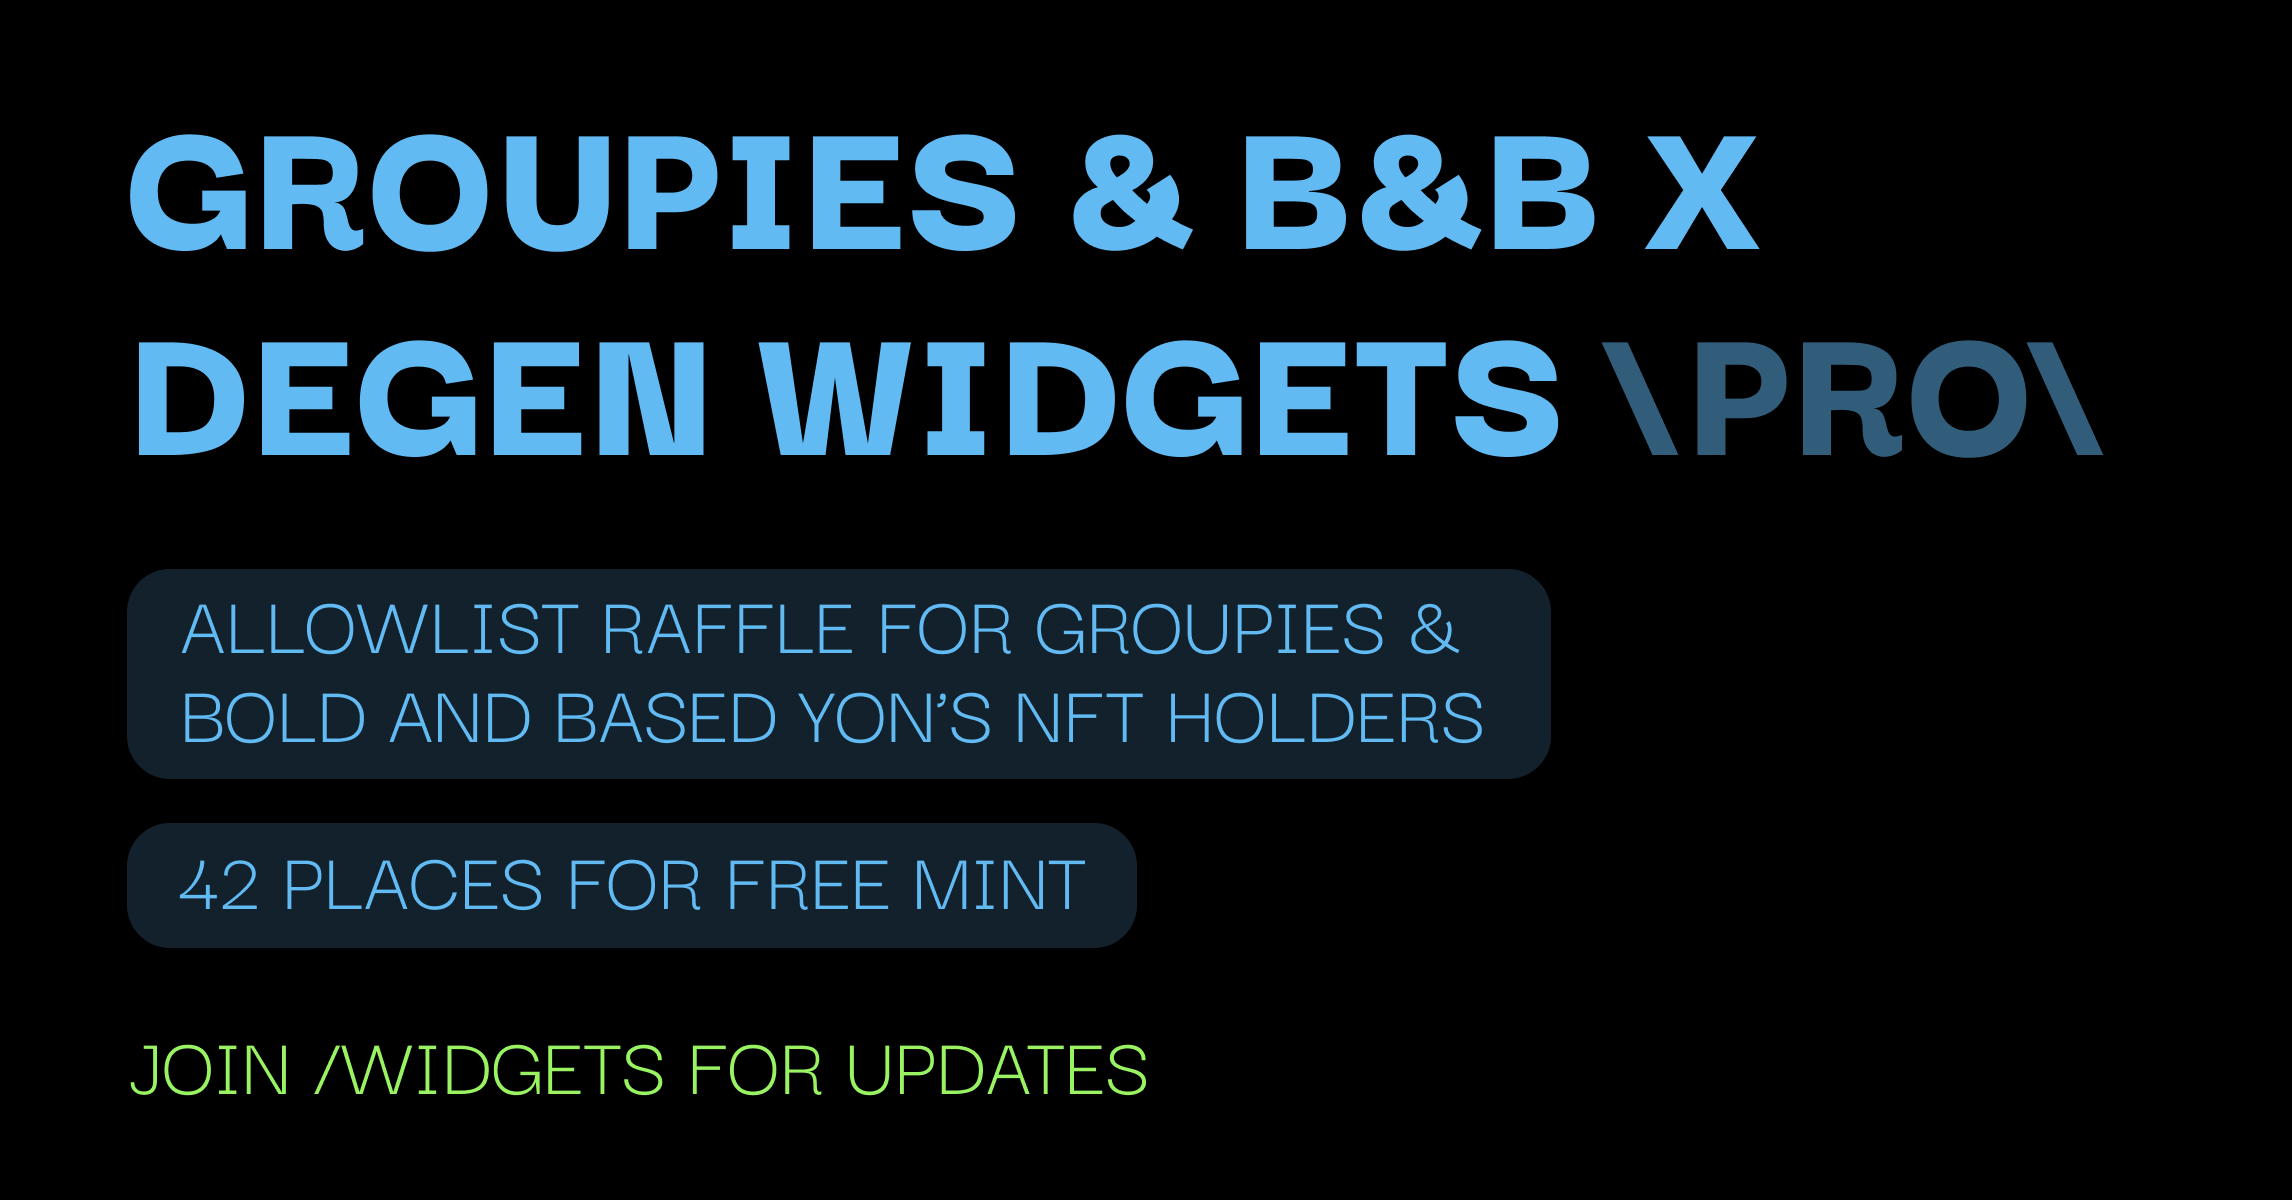
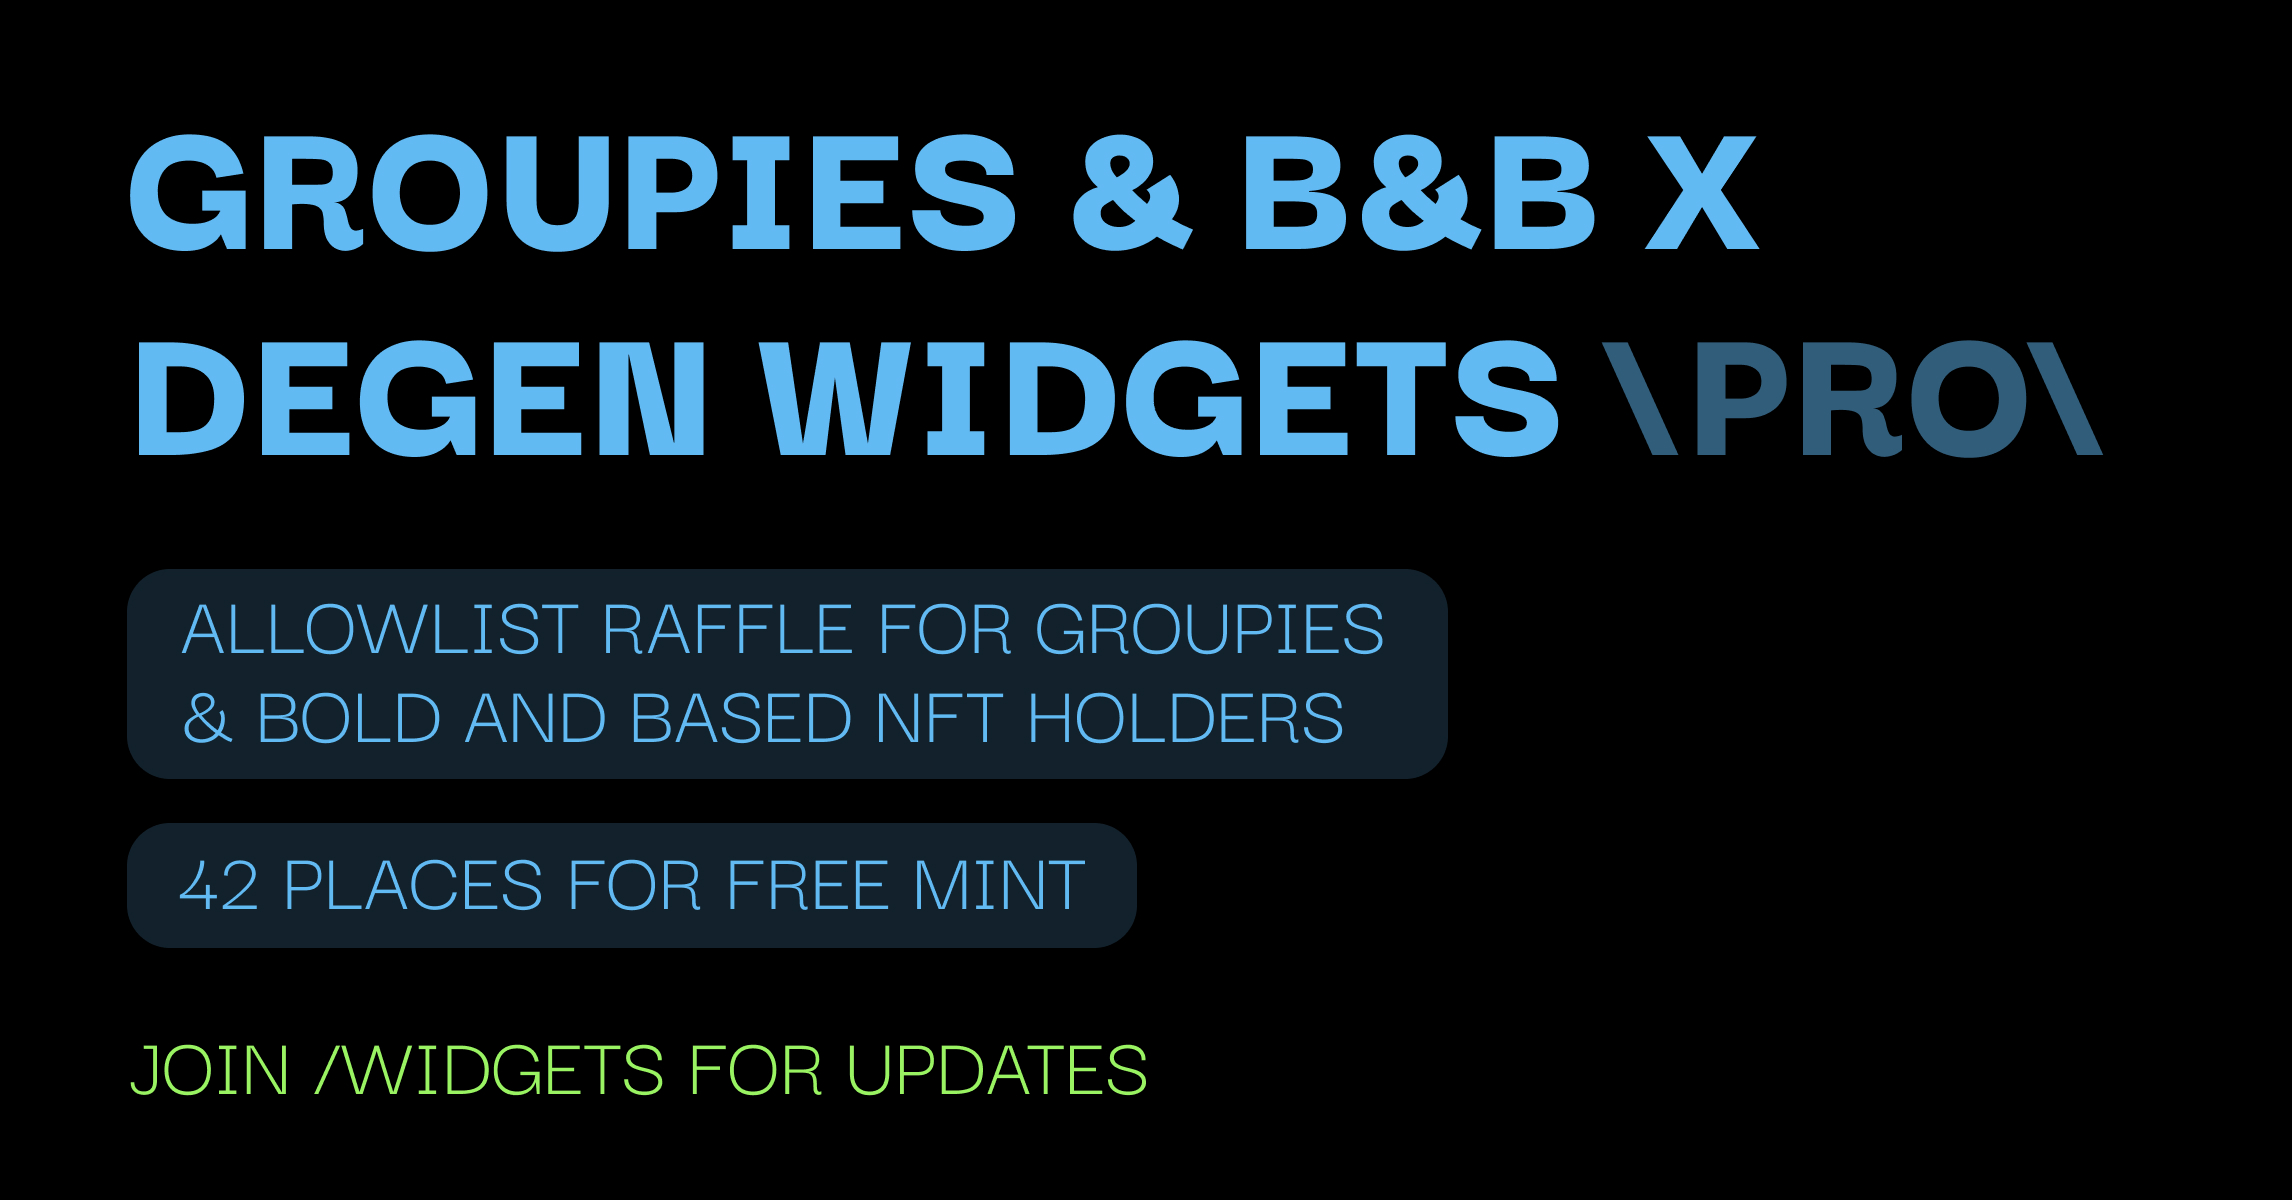
Update allowlist requirements and metadataBase URL

Changed region(s): [[0.062, 0.4625, 0.6815, 0.6475]]

diff --git a/src/app/api/signup/[id]/route.ts b/src/app/api/signup/[id]/route.ts
@@ -14,7 +14,10 @@ export const dynamic = 'force-dynamic'
 const allowlistCollectionData = [
   {
     id: 'groupies',
-    requirements: ['base:0x2ad08B1132cB4f969361FD0Aa9beeB8e55776Bbc:1']
+    requirements: [
+      'eth:0x4f89Cd0CAE1e54D98db6a80150a824a533502EEa',
+      'base:0x2ad08B1132cB4f969361FD0Aa9beeB8e55776Bbc:1'
+    ]
   },
   {
     id: 'jeeves',
@@ -40,9 +43,9 @@ export async function POST(
     return new NextResponse('Unauthorized', { status: 401 })
   }
 
-  const wallets = message.interactor.verified_accounts
+  const wallets = message.interactor.verified_addresses.eth_addresses
 
-  if (wallets.length === 0) {
+  if (!wallets || wallets.length === 0) {
     const imageUrl = `${process.env.HOST}/no-wallets.jpg`
 
     return new NextResponse(
@@ -136,8 +139,8 @@ export async function POST(
       `<!DOCTYPE html>
       <html>
         <head>
-          <title>Watch the video!</title>
-          <meta property="og:title" content="You can watch the video!" />
+          <title>Success!</title>
+          <meta property="og:title" content="You signed up to allowlist!" />
           <meta property="og:image" content="${imageUrl}" />
           <meta property="fc:frame" content="vNext" />
           <meta property="fc:frame:image" content="${imageUrl}" />

diff --git a/src/app/signup/[id]/page.tsx b/src/app/signup/[id]/page.tsx
@@ -12,6 +12,7 @@ export async function generateMetadata({
   const postUrl = `${process.env.HOST}/api/signup/${id}`
 
   return {
+    metadataBase: new URL(process.env.HOST!),
     title: 'Allowlist',
     description: 'Sign Up to allowlist',
     openGraph: {
